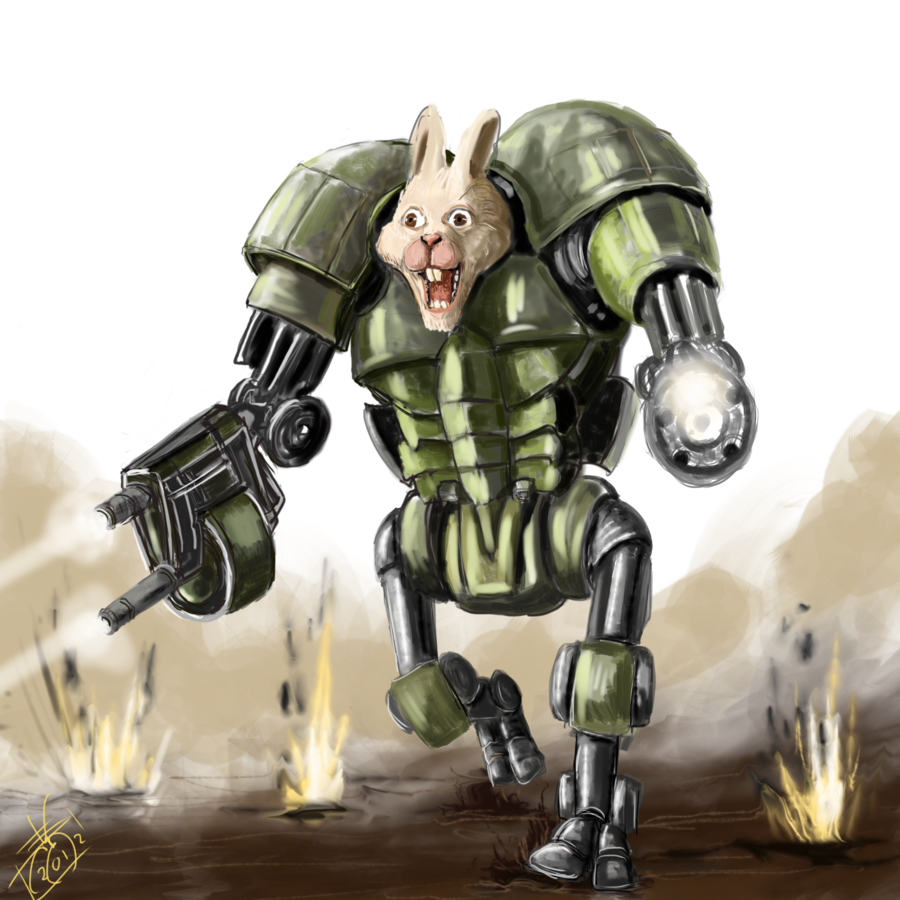
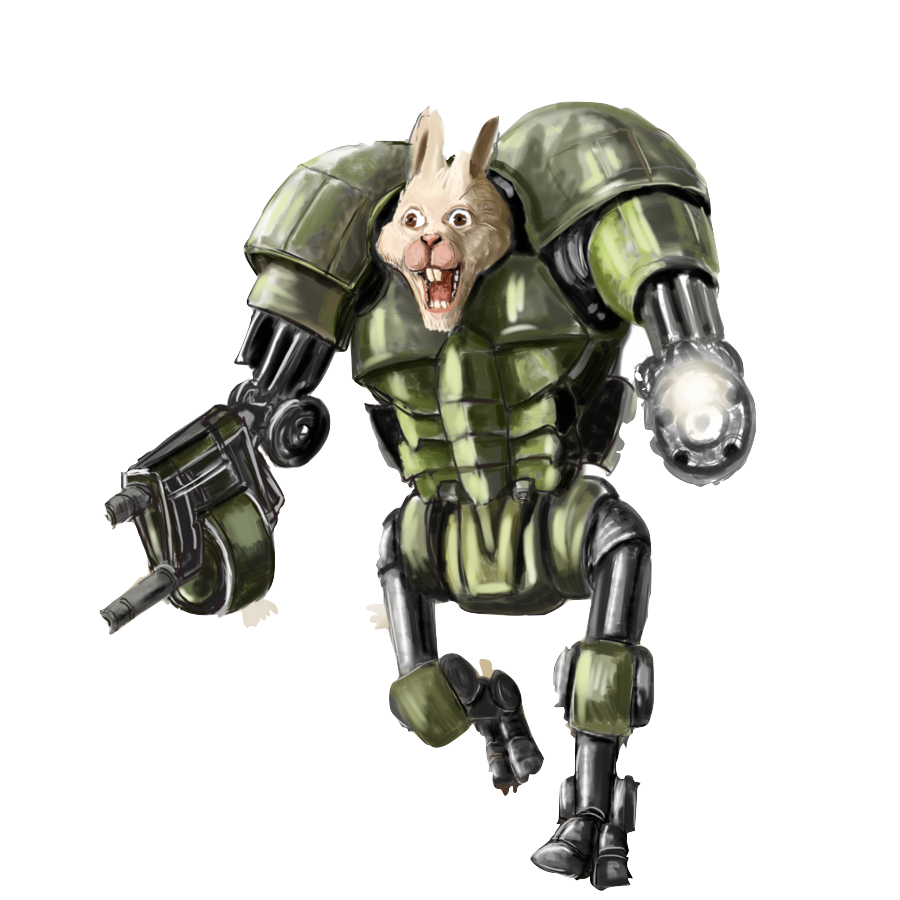
Removed background on sprites used in game

diff --git a/TheAdventuresOfBob/SettingsViewController.m b/TheAdventuresOfBob/SettingsViewController.m
@@ -100,19 +100,56 @@
     NSString *recentNameSave = [[DataShared sharedInstance] userName];
     [[NSUserDefaults standardUserDefaults]setObject:recentNameSave forKey:@"recentName"];
     [[NSUserDefaults standardUserDefaults]synchronize];
-    
-
 }
 
 -(void)viewWillDisappear:(BOOL)animated{
+    self.recentGamePlayerName = [[DataShared sharedInstance] userName];
+    self.recentGamePlayerScore = [[DataShared sharedInstance] highscoreVal];
+    NSLog(@"Recent Game Name = %@", self.recentGamePlayerName);
+    NSLog(@"Recent game score = %ld", self.recentGamePlayerScore);
+    NSLog(@"Highscore Game Name = %@", self.highscoreGamePlayerName);
+    NSLog(@"Highscore game score = %ld", self.highsoreGamePlayerScore);
+    
+    if (self.recentGamePlayerScore > self.highsoreGamePlayerScore) {
+        
+        NSInteger strHighScore = [[NSUserDefaults standardUserDefaults] integerForKey:@"highScore"];
+        self.highsoreGamePlayerScore = strHighScore;
+        NSInteger highScoreSave = self.recentGamePlayerScore;
+        [[NSUserDefaults standardUserDefaults]setInteger:highScoreSave forKey:@"highScore"];
+        [[NSUserDefaults standardUserDefaults]synchronize];
+        
+        NSString *strHighPlayer = [[NSUserDefaults standardUserDefaults] stringForKey:@"highName"];
+        self.highscoreGamePlayerName = strHighPlayer;
+        NSString *highNameSave = self.recentGamePlayerName;
+        [[NSUserDefaults standardUserDefaults]setObject:highNameSave forKey:@"highName"];
+        [[NSUserDefaults standardUserDefaults]synchronize];
+        
+        /*self.highsoreGamePlayerScore = self.recentGamePlayerScore;
+         self.highscoreGamePlayerName = self.recentGamePlayerName;*/
+        NSLog(@"Highscore Game Name = %@", self.highscoreGamePlayerName);
+        NSLog(@"Highscore Game Score = %ld", self.highsoreGamePlayerScore);
+        self.highScoreSetbyValue.text = [NSString stringWithFormat:@" %@ = %ld", self.highscoreGamePlayerName ,self.highsoreGamePlayerScore];
+        self.highscoreSetbyValueX = self.highScoreSetbyValue.text;
+    }
+    
+    
+    NSString *stringKey = [[NSUserDefaults standardUserDefaults] stringForKey:@"ourTextKey"];
+    self.enterName.text = stringKey;
     NSString *textWithinField = _enterName.text ;
     [[NSUserDefaults standardUserDefaults]setObject:textWithinField forKey:@"ourTextKey"];
+    [[NSUserDefaults standardUserDefaults]synchronize];
     
+    NSInteger strRecentScore = [[NSUserDefaults standardUserDefaults] integerForKey:@"recentScore"];
+    self.recentGamePlayerScore = strRecentScore;
     NSInteger recentScoreSave = [[DataShared sharedInstance] highscoreVal];
     [[NSUserDefaults standardUserDefaults]setInteger:recentScoreSave forKey:@"recentScore"];
+    [[NSUserDefaults standardUserDefaults]synchronize];
     
+    NSString *strRecentPlayer = [[NSUserDefaults standardUserDefaults] stringForKey:@"recentName"];
+    self.recentGamePlayerName = strRecentPlayer;
     NSString *recentNameSave = [[DataShared sharedInstance] userName];
     [[NSUserDefaults standardUserDefaults]setObject:recentNameSave forKey:@"recentName"];
+    [[NSUserDefaults standardUserDefaults]synchronize];
 }
 
 

diff --git a/TheAdventuresOfBob/ViewController.m b/TheAdventuresOfBob/ViewController.m
@@ -485,7 +485,7 @@ int score;
  https://mir-s3-cdn-cf.behance.net/project_modules/max_1200/b0e53331516629.565449774c2d4.png
  
  Fist Attack Pickture
- http://all-free-download.com/free-vector/download/fist-outline-lineart-clip-art_18637.html
+https://encrypted-tbn0.gstatic.com/images?q=tbn:ANd9GcR5zAPPNnj_LlVi2YeVQOetsMrCmputmhjAu3z6cY8IxCZkb6EKJw
  
  Fireball Picture
  https://www.giantbomb.com/fireball/3055-120/
